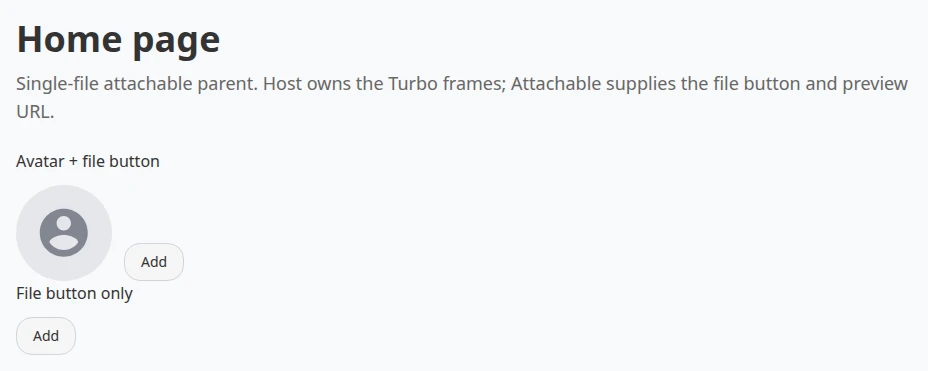
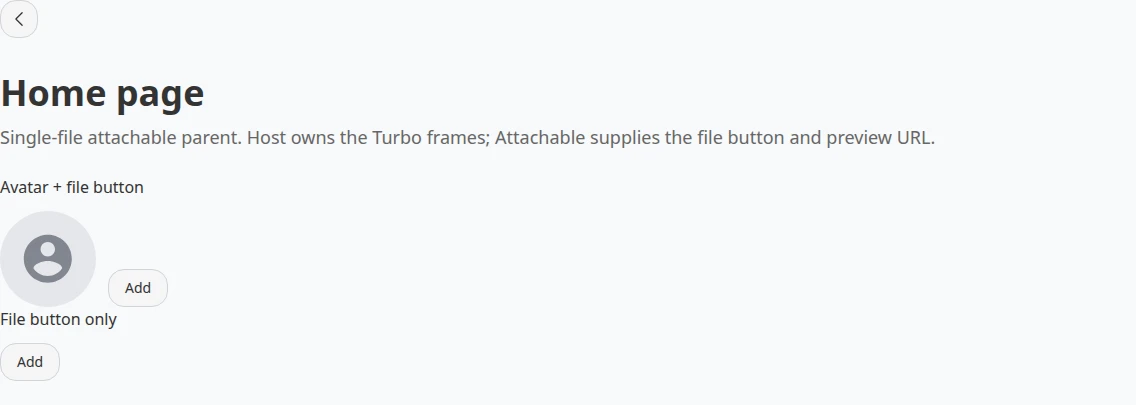
Use RecordingStudio default_layout for attachment chromes demo
Point UsesDefaultLayout at recording_studio/default_layout (sidebar-free
core shell with body data-theme=rounded). Drop image-slot crop leftovers
and recapture full-page empty/with-file shots on /attachment_chromes.

diff --git a/test/dummy/app/controllers/concerns/uses_default_layout.rb b/test/dummy/app/controllers/concerns/uses_default_layout.rb
@@ -1,9 +1,11 @@
 # frozen_string_literal: true
 
+# Prefer RecordingStudio::UsesDefaultLayout (recording_studio/default_layout).
+# This thin alias keeps existing `include UsesDefaultLayout` call sites working.
 module UsesDefaultLayout
   extend ActiveSupport::Concern
 
   included do
-    layout "flat_pack_sidebar"
+    include RecordingStudio::UsesDefaultLayout
   end
 end

diff --git a/test/dummy/config/initializers/recording_studio_default_layout.rb b/test/dummy/config/initializers/recording_studio_default_layout.rb
@@ -1,0 +1,4 @@
+# Ensure RecordingStudio pages use the shared sidebar-free default layout.
+Rails.application.config.to_prepare do
+  RecordingStudio::ApplicationController.include(RecordingStudio::UsesDefaultLayout) if defined?(RecordingStudio::ApplicationController)
+end
